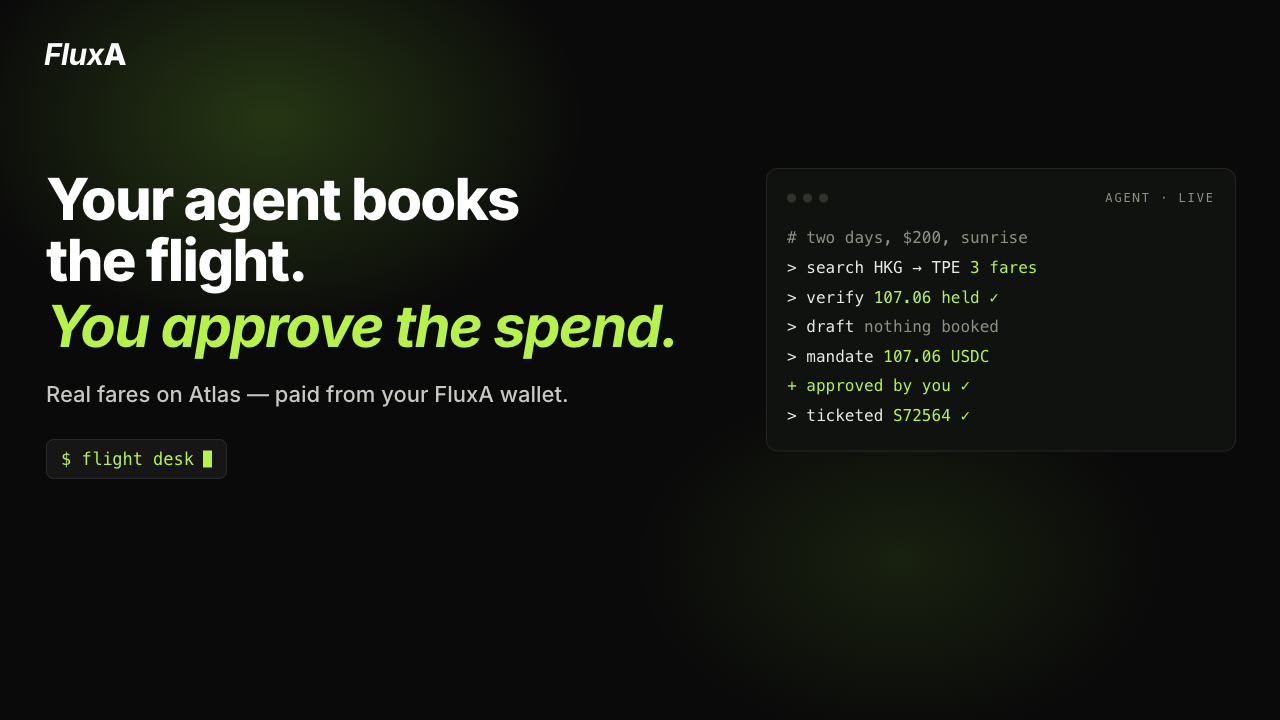
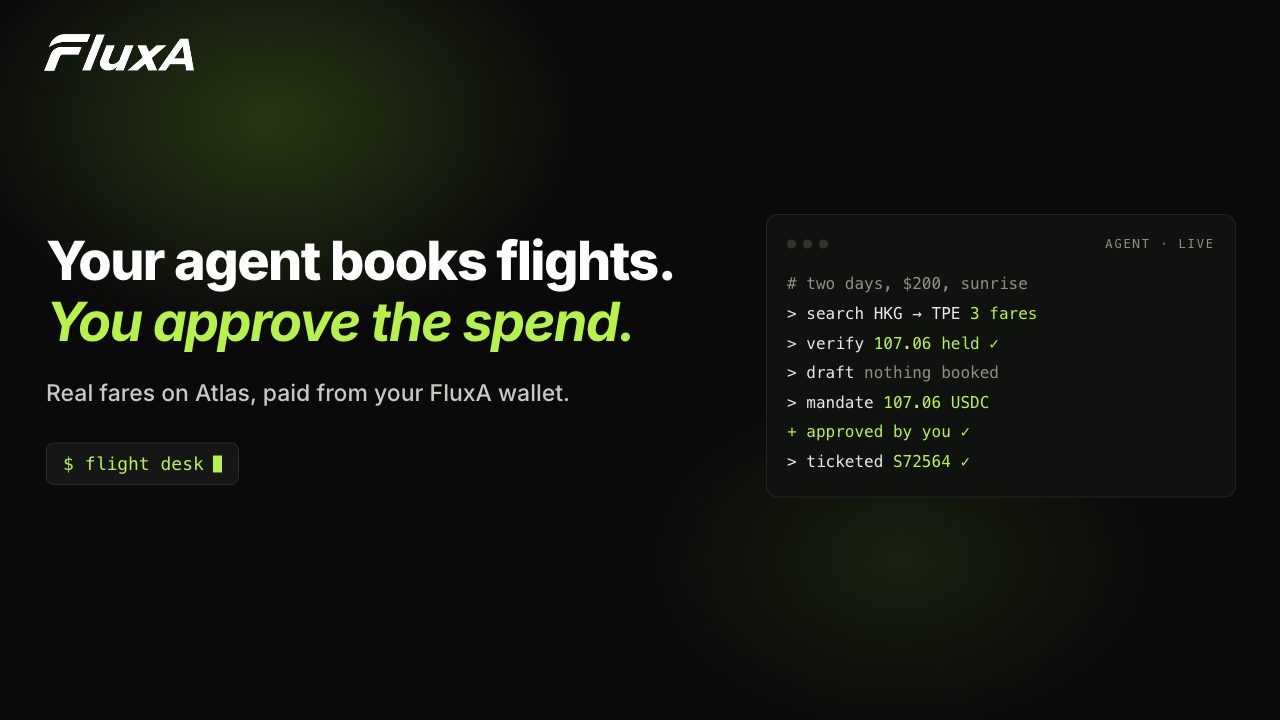
Thumbnail: real wordmark, two-line headline, no em dash
Swapped the typed approximation for the supplied white wordmark
(白色logo@4x.png, 649x161) so the mark is the real one rather than Inter
italic pretending to be it.

Headline is now two lines to match the channel: one white, one lime italic.
"Your agent books flights. / You approve the spend." The em dash in the
subtitle is gone.

Rebalanced vertically — the block was leaving nearly half the frame dark at
the bottom, against about a quarter in the reference thumbnails.

diff --git a/videos/thumbnail/index.html b/videos/thumbnail/index.html
@@ -17,23 +17,22 @@
       .bloom.b2 { left:520px; top:300px; width:760px; height:520px;
                   background:radial-gradient(closest-side, rgba(150,230,60,.10), rgba(150,230,60,0) 70%); }
 
-      .mark { position:absolute; left:44px; top:36px; font-size:30px; font-weight:800;
-              font-style:italic; letter-spacing:-.02em; }
-      .mark span { font-style:normal; }
+      /* the supplied white wordmark, 649x161 (4.03:1) */
+      .mark { position:absolute; left:44px; top:34px; width:150px; height:37px; }
 
-      .copy { position:absolute; left:46px; top:168px; width:700px; }
-      .l1 { font-size:58px; font-weight:800; letter-spacing:-.03em; line-height:1.06; }
-      .l2 { font-size:58px; font-weight:800; font-style:italic; letter-spacing:-.03em;
+      .copy { position:absolute; left:46px; top:232px; width:770px; }
+      .l1 { font-size:54px; font-weight:800; letter-spacing:-.03em; line-height:1.06; }
+      .l2 { font-size:54px; font-weight:800; font-style:italic; letter-spacing:-.03em;
             line-height:1.06; color:#b6f24a; margin-top:4px; }
-      .sub { font-size:22px; color:#c9c9c4; margin-top:22px; line-height:1.4; font-weight:500; }
+      .sub { font-size:23px; color:#c9c9c4; margin-top:26px; line-height:1.4; font-weight:500; }
 
-      .chip { display:inline-flex; align-items:center; gap:9px; margin-top:30px;
+      .chip { display:inline-flex; align-items:center; gap:9px; margin-top:34px;
               background:#161616; border:1px solid #2a2a2a; border-radius:8px;
-              padding:9px 14px; font-family:ui-monospace,monospace; font-size:17px;
+              padding:10px 16px; font-family:ui-monospace,monospace; font-size:18px;
               color:#b6f24a; }
       .chip i { width:9px; height:17px; background:#b6f24a; display:inline-block; }
 
-      .term { position:absolute; right:44px; top:168px; width:470px;
+      .term { position:absolute; right:44px; top:214px; width:470px;
               background:#101210; border:1px solid #23261f; border-radius:12px;
               padding:18px 20px 20px; font-family:ui-monospace,monospace; font-size:16px;
               line-height:1.85; }
@@ -51,13 +50,12 @@
       <div class="bloom"></div>
       <div class="bloom b2"></div>
 
-      <div class="mark">Flux<span>A</span></div>
+      <img class="mark" src="assets/fluxa-logo-white.png" alt="FluxA" />
 
       <div class="copy">
-        <div class="l1">Your agent books</div>
-        <div class="l1">the flight.</div>
+        <div class="l1">Your agent books flights.</div>
         <div class="l2">You approve the spend.</div>
-        <div class="sub">Real fares on Atlas &mdash; paid from your FluxA wallet.</div>
+        <div class="sub">Real fares on Atlas, paid from your FluxA wallet.</div>
         <div class="chip">$ flight desk <i></i></div>
       </div>
 
